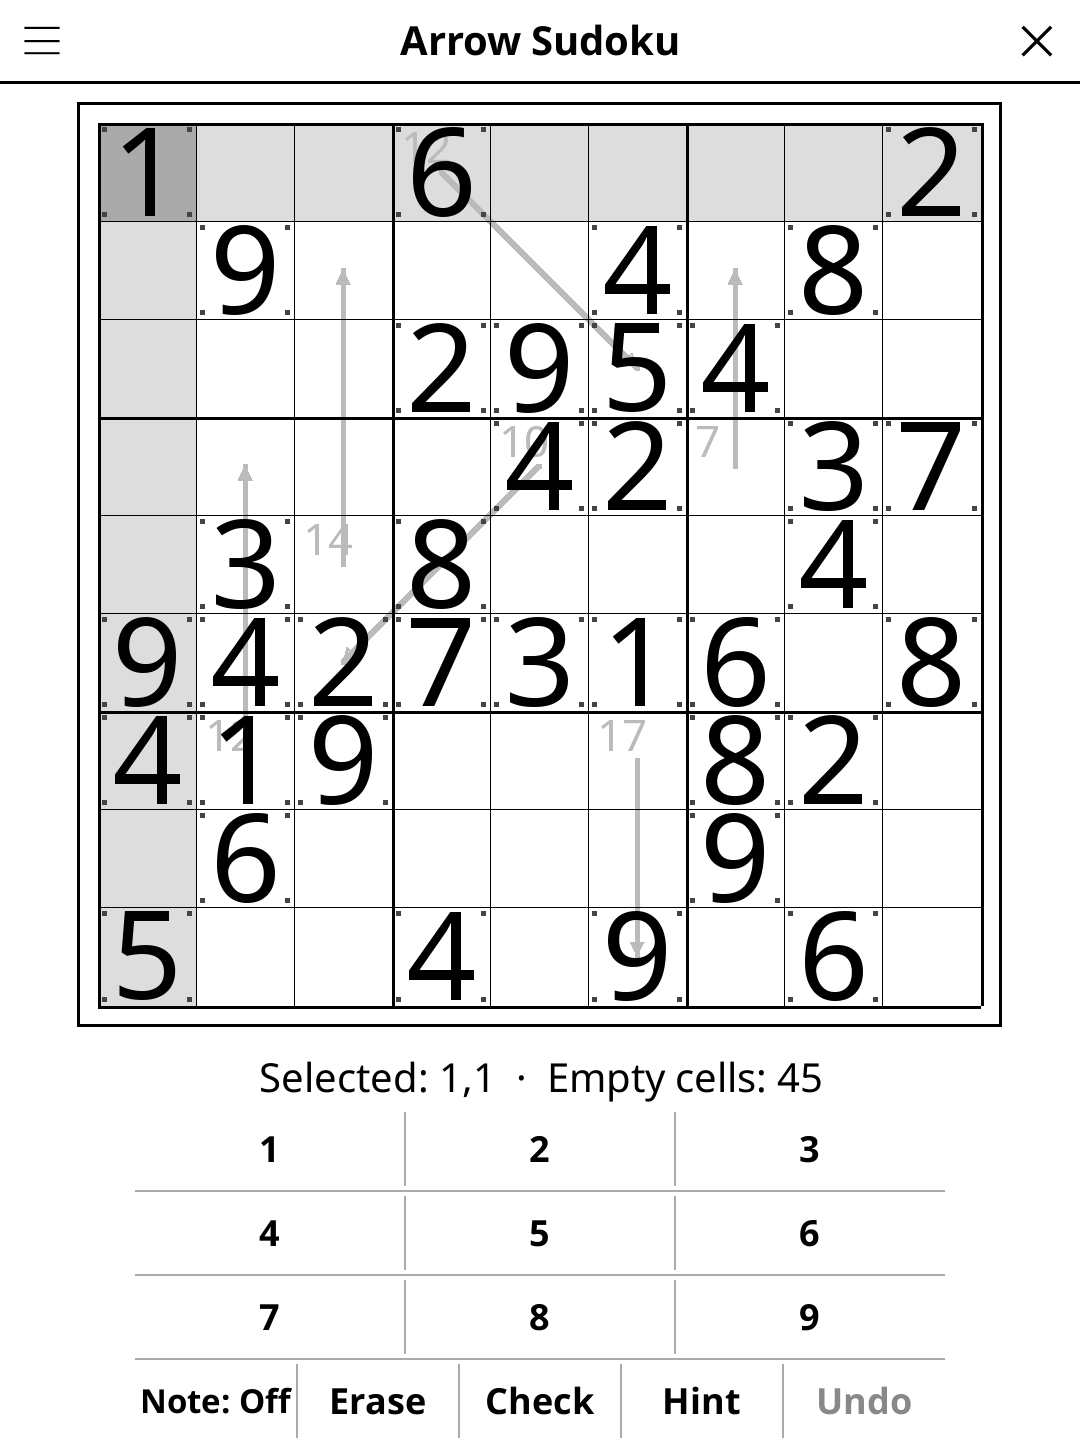
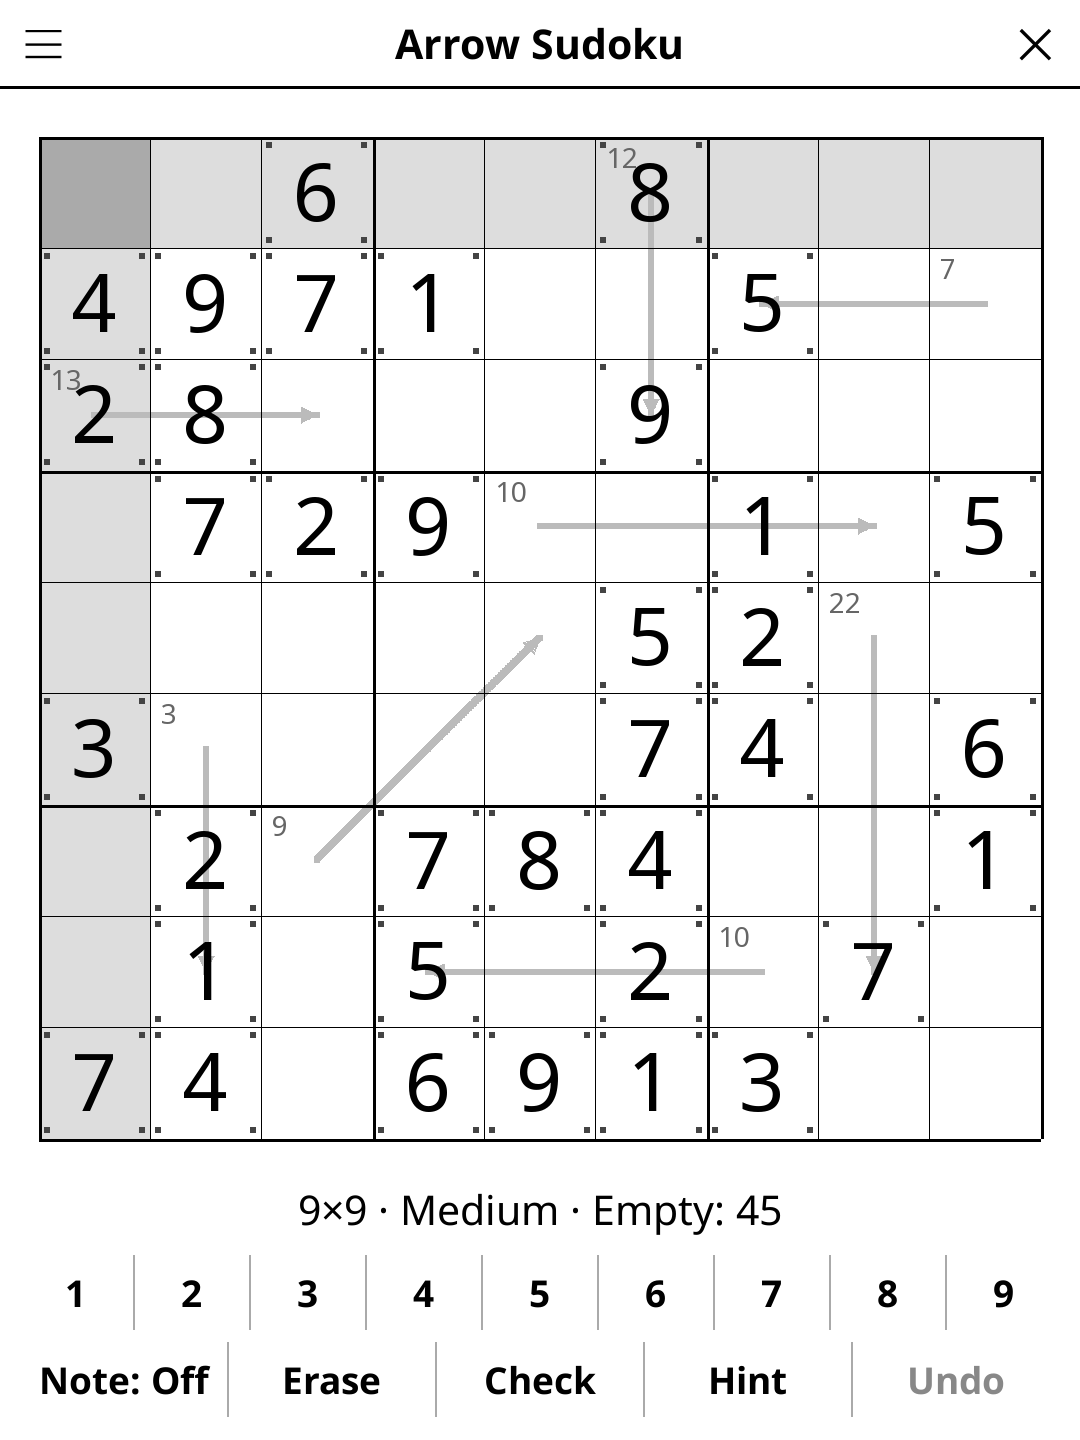
release: 1.5.0 -- redesigned screen, harmonised menu, New game at round end
Screen redesign (full-width action bar, unified pad, status line, larger
board), harmonised title-bar menu, and a "New game" button once the round
is over. See CHANGELOG.md.

diff --git a/CHANGELOG.md b/CHANGELOG.md
@@ -2,6 +2,27 @@
 
 All notable changes to this project will be documented in this file.
 
+## [1.5.0] - 2026-10-30
+
+### Changed
+- Redesigned play screen, shared with the other sudoku variants (sudoku-common
+  1.5.0): the digits sit on one even row of keys, Note/Erase/Check/Hint/Undo
+  on a full-width bar below, and the board takes all the room they leave, in
+  portrait and landscape.
+- The status line reads "9×9 · Medium · Empty: 45" and wraps in landscape
+  instead of being cut off.
+- Title-bar menu: "Difficulty: Medium" instead of "Diff: Medium", and "Show
+  solution" / "Hide solution" instead of "Show result" / "Hide result", like
+  every other game.
+- Once the puzzle is solved, the tool bar shows "New game" in place of its
+  buttons; an Undo that un-solves the grid brings them back.
+
+### Fixed
+- Digits overflowed their cells: the shared font fit accepted every size.
+- The arrow sum in the corner of a circle cell ran into the digit on high-DPI
+  screens (its size was scaled by DPI twice); it is now fitted to the corner,
+  and drawn darker so it no longer vanishes on the selection band.
+
 ## [1.4.1] - 2026-10-02
 
 ### Fixed
